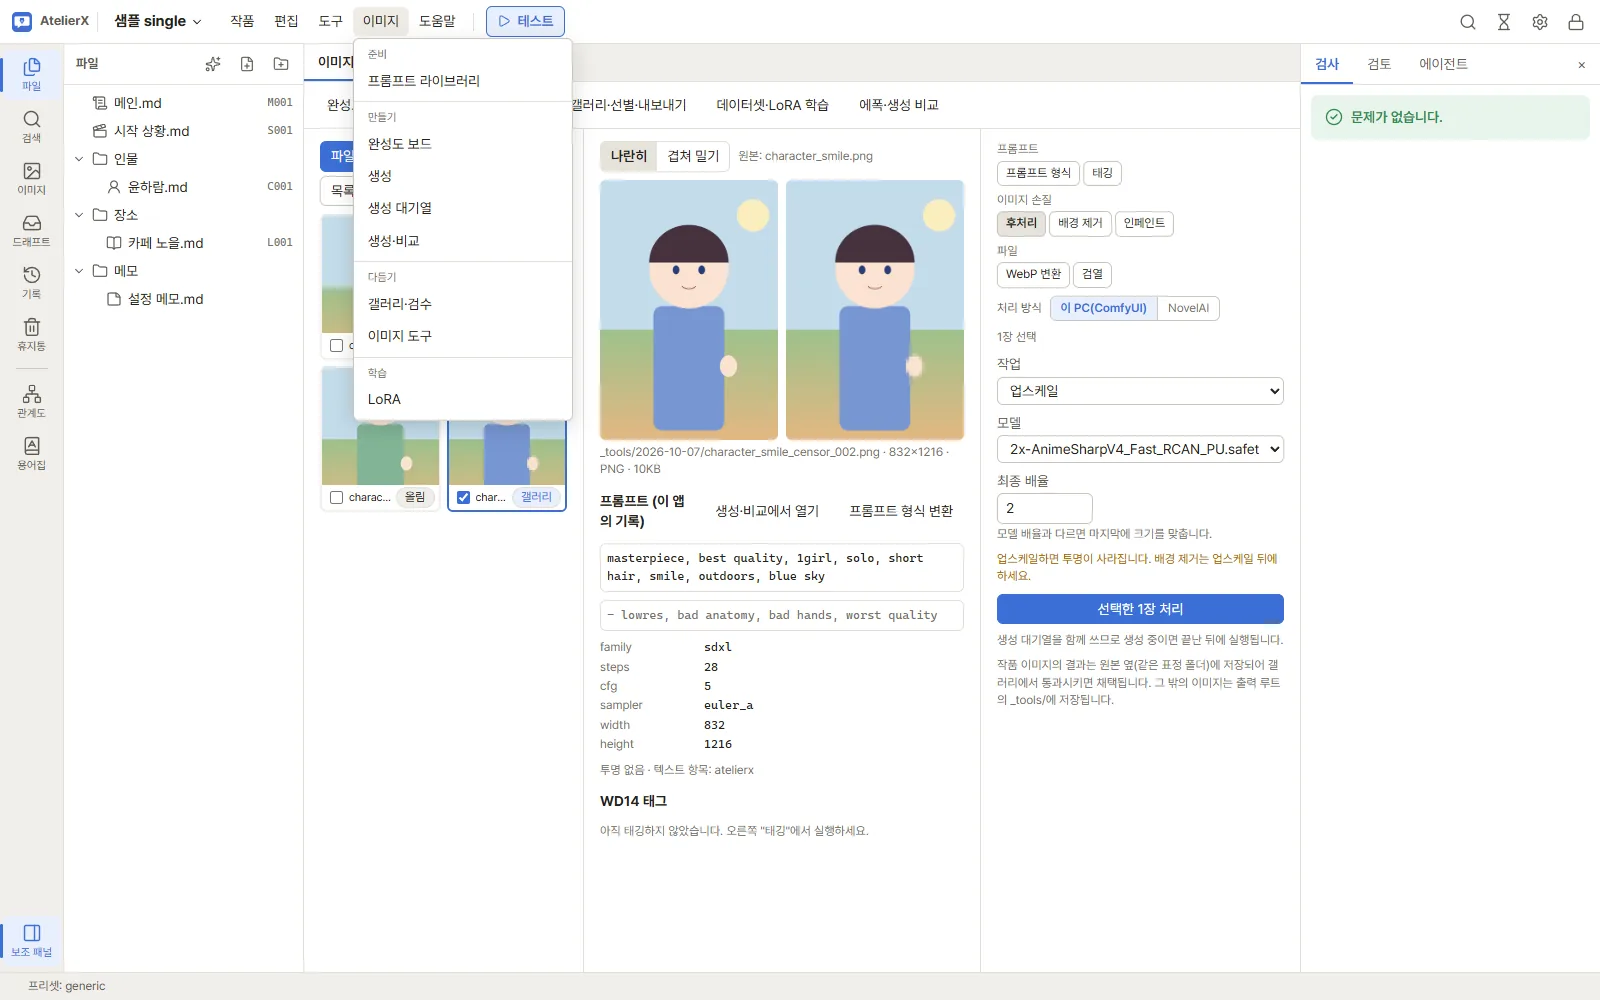
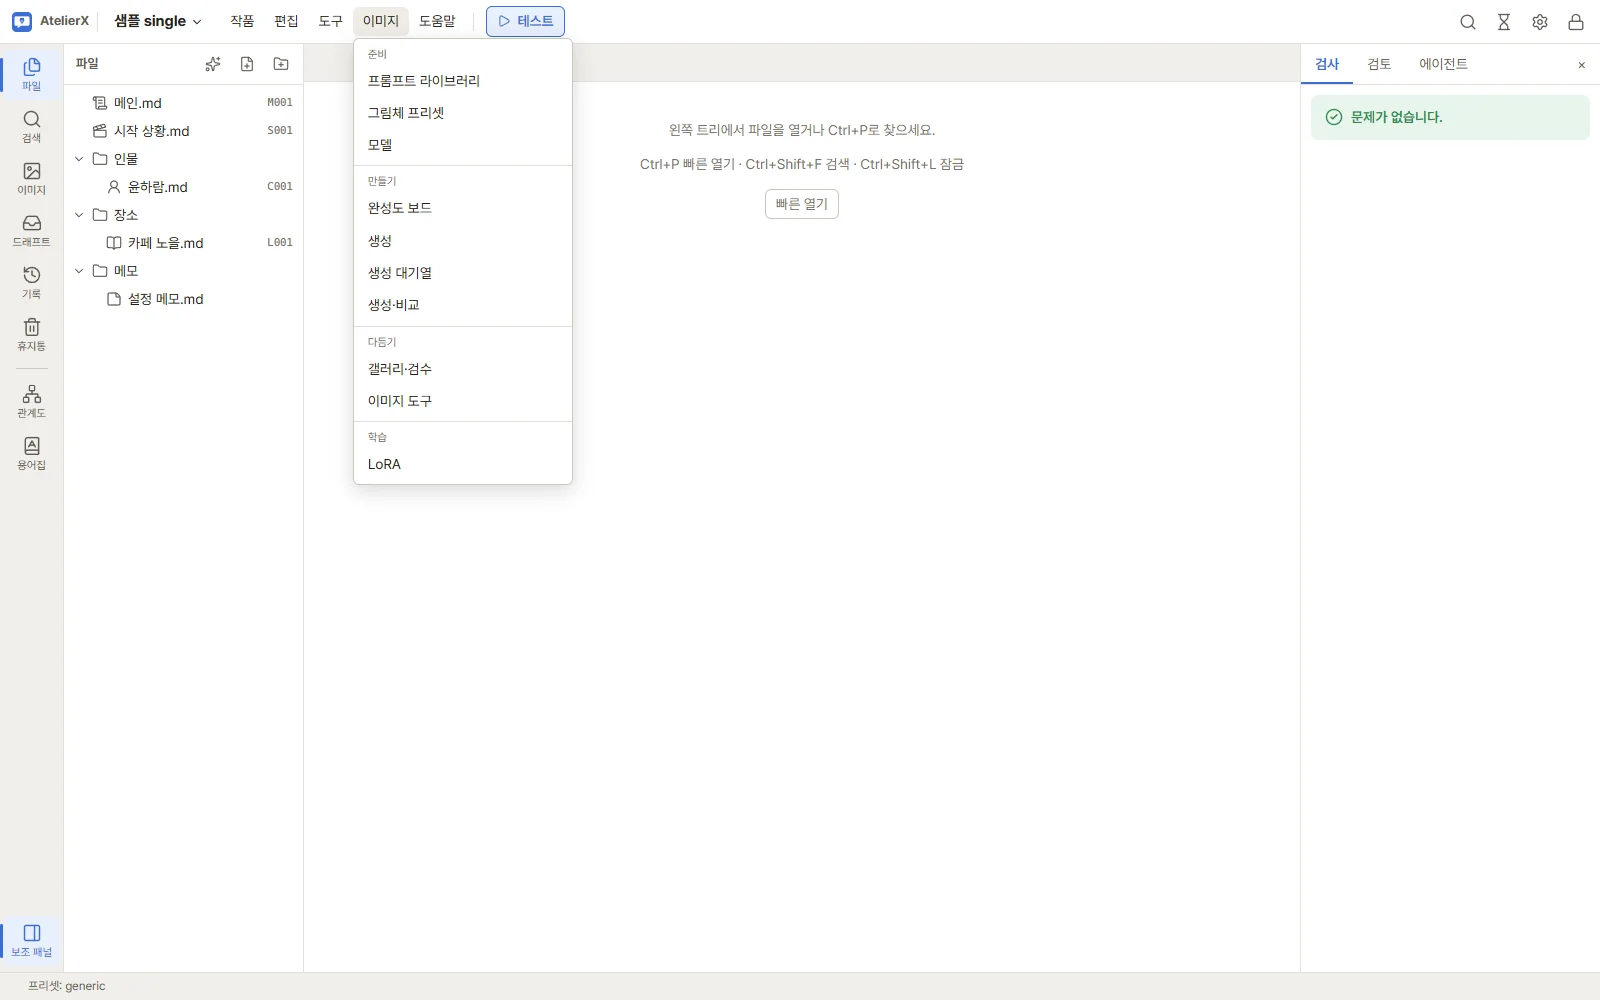
docs: new 0.3.0 manual screenshots with ComfyUI-made pictures, and the release status after checking conversion with a local LLM

diff --git a/docs/manual/guide/character-images.md b/docs/manual/guide/character-images.md
@@ -11,6 +11,8 @@
 - **본문 전체 변환**: 이미지 설계 화면에서 **프롬프트로 변환**(또는 **다시 변환**)을 누르면 캐릭터 문서 전체를 LLM에 보내 외모와 의상을 찾게 합니다. 처음에 한꺼번에 만들 때 씁니다. 이 인물의 지금 모습만 쓰고, 다른 인물·과거·가정은 뺍니다. 이미 있는 의상과 같은 옷이면 같은 이름으로 짝지어 갱신하고, 새 옷만 새 의상이 됩니다.
 - **범위 지정 변환**: 본문에서 글을 고르고 우클릭(또는 **Alt+P**) → **이미지 프롬프트로** → **외모**, **의상**(기존 의상 또는 **새 의상…**), **외모에 범위 추가**를 고릅니다. 고른 글만 그 부분의 태그로 바꿉니다. 틀린 부분을 정확히 고칠 때 씁니다. 외모 묘사가 여러 문단에 흩어져 있으면 **외모에 범위 추가**로 조각을 더합니다(이전 조각과 함께 다시 바꿉니다). 저장하지 않은 글은 먼저 저장합니다.
 
+![범위 지정 변환 — 고른 글을 의상으로](../screenshots/char-range-menu.webp)
+
 어느 쪽이든 결과는 검토 화면에 나옵니다. 부분마다 태그와 **원문**(근거가 된 본문 문장, 또는 고른 범위)을 펼쳐 보고, 의상에는 **갱신**/**새 의상**이 표시됩니다. 항목별 **변환 결과 적용** 선택을 확인한 뒤 **적용**을 누르면 `design.json`에 저장됩니다. **버리기**를 누르면 적용하지 않습니다.
 
 ![이미지 프롬프트 탭](../screenshots/char-image-prompt.webp)

diff --git a/docs/manual/index.md b/docs/manual/index.md
@@ -34,7 +34,7 @@ features:
 
 ## 이 설명서는
 
-**AtelierX 0.3.0**을 기준으로 씁니다. 화면 캡처는 0.0.3부터 0.2.2 사이에 찍어 버전마다 조금 다를 수 있습니다. 버전마다 바뀐 점은 [바뀐 점](changelog.md)에 모읍니다. 앱의 **도움말 → 사용 설명서(이 PC)** 로 같은 내용을 인터넷 없이 볼 수 있습니다.
+**AtelierX 0.3.0**을 기준으로 씁니다. 화면 캡처는 0.0.3부터 0.3.0 사이에 찍어 버전마다 조금 다를 수 있습니다. 버전마다 바뀐 점은 [바뀐 점](changelog.md)에 모읍니다. 앱의 **도움말 → 사용 설명서(이 PC)** 로 같은 내용을 인터넷 없이 볼 수 있습니다.
 
 ![작품 창: 파일 트리, 편집기, 에이전트 패널](screenshots/agent-conversation.webp)
 

diff --git a/docs/manual/changelog.md b/docs/manual/changelog.md
@@ -43,6 +43,7 @@
 ### 설명서
 
 - 새 페이지: [그림체 프리셋](guide/style-presets.md), [모델](guide/models.md).
+- 화면 캡처를 새로 찍었습니다: 이미지 메뉴, 그림체 프리셋, 모델, 프롬프트 라이브러리(표정, 가져오기), 범위 지정 메뉴, 이미지 프롬프트 탭과 검토, 생성 화면, 이미지 도구(그린 예시 대신 ComfyUI로 만든 그림, 생성 정보 표).
 - 프롬프트 라이브러리(구도·배경, 메모, 내보내기·가져오기), 캐릭터 이미지 설계(본문 전체·범위 지정 변환, 상태), 이미지 생성(업스케일·디테일러), 이미지 도구(생성 정보 표), LoRA(폴더 연결), 처음 시작하기·설정(비밀번호)을 고쳤습니다.
 
 ## 0.2.2

diff --git a/docs/manual/guide/models.md b/docs/manual/guide/models.md
@@ -4,6 +4,8 @@
 
 ## 화면
 
+![모델 — 내 모델](../screenshots/models.webp)
+
 - 위쪽 막대: **찾기**(이름·기반 모델·트리거 단어), 거르기(종류, 계열, 출처, 기반 모델), **나란히 보기**, **새로 고침**
 - 가운데: 모델 카드. Stability Matrix로 받은 파일은 그 미리보기가 보입니다. 카드에는 이름, 파일 이름, 종류(체크포인트·디퓨전 모델·LoRA·텍스트 인코더·VAE·업스케일 모델), 계열(Anima·SDXL·IL), 출처가 보입니다.
 - 오른쪽: 카드를 누르면 파일 위치, 크기, 출처, Civitai 정보, 기반 모델, 트리거 단어, 라이선스가 보입니다. 트리거 단어는 누르면 복사됩니다.

diff --git a/docs/manual/guide/style-presets.md b/docs/manual/guide/style-presets.md
@@ -4,6 +4,8 @@
 
 ## 화면
 
+![그림체 프리셋 — 미리보기 카드와 편집 칸](../screenshots/style-presets.webp)
+
 - 위쪽 막대: **찾기**(이름·artist 태그·태그), 거르기(서비스·계열, 태그, 모델, LoRA), **나란히 보기**, **미리보기 시드**, **없거나 오래된 미리보기 만들기**, **새 프리셋**
 - 가운데: 프리셋 카드. 미리보기 한 장과 이름, 서비스·계열, 태그가 보입니다. 설정이 바뀌어 미리보기가 맞지 않으면 **오래됨**이 붙습니다.
 - 오른쪽: 카드를 누르면 그 프리셋을 편집하는 칸이 열립니다. 아무것도 고르지 않았을 때는 화면 설명이 보입니다.

diff --git a/docs/manual/guide/image-library.md b/docs/manual/guide/image-library.md
@@ -92,6 +92,8 @@
 
 ### 가져오기
 
+![라이브러리 가져오기 — 조각마다 새 항목·이미 있음과 바뀌는 내용](../screenshots/library-import.webp)
+
 1. 목록 위 **가져오기**를 누르고 내보낸 파일을 고릅니다.
 2. 조각마다 **새 항목** 또는 **이미 있음**(같은 id)이 보입니다. 이미 있는 조각은 바뀌는 내용(이전 → 새 값)이 보이고, 같으면 "내용이 같습니다"가 보입니다.
 3. 위쪽 **넣을 곳**에서 **전역** 또는 **작품**을 고릅니다. 작품에서 내보낸 조각만 있는 파일은 처음에 **작품**이 골라져 있습니다.
